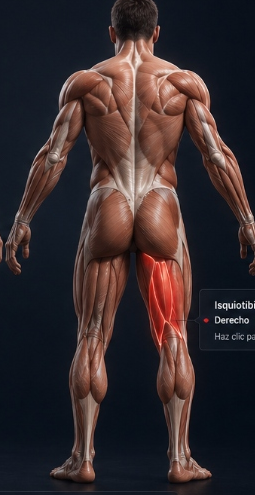
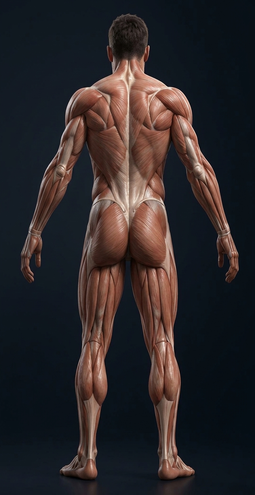
fix(medical): sustituir imagen de fondo posterior por textura limpia 3D sin isquiotibial rojo ni tooltip impresos

diff --git a/src/components/features/medical/InteractiveAnatomyViewer.tsx b/src/components/features/medical/InteractiveAnatomyViewer.tsx
@@ -46,6 +46,16 @@ export function InteractiveAnatomyViewer({
   const [hoveredSubportion, setHoveredSubportion] = useState<string | null>(null);
   const [zoomMode, setZoomMode] = useState<'macro' | 'micro'>('macro');
 
+  // Sincronizar vista de cámara automáticamente cuando cambia la zona seleccionada
+  React.useEffect(() => {
+    if (selectedCode && ANATOMICAL_ZONES[selectedCode]?.viewDefault) {
+      setCameraView(ANATOMICAL_ZONES[selectedCode].viewDefault === 'posterior' ? 'posterior' : 'frontal');
+    } else if (!selectedCode) {
+      setCameraView('frontal');
+      setZoomMode('macro');
+    }
+  }, [selectedCode]);
+
   // Mapear qué zonas anatómicas tienen lesiones activas o antecedentes
   const injuryStatusByZone = useMemo(() => {
     const map: Record<string, { hasActive: boolean; hasResolved: boolean; injury?: PlayerInjuryDTO }> = {};
@@ -510,11 +520,7 @@ export function InteractiveAnatomyViewer({
             {cameraView === 'frontal' && (
               <div className="relative w-[210px] h-[440px] flex items-center justify-center">
                 <img
-                  src={
-                    injuryStatusByZone['recto_femoral_der']?.hasActive || selectedCode === 'recto_femoral_der'
-                      ? '/models/avatar_exact_mockup.png'
-                      : '/models/avatar_front_reference_clean.png'
-                  }
+                  src="/models/avatar_front_reference_clean.png"
                   alt="Anatomía Frontal"
                   className="w-full h-full object-contain filter contrast-105 pointer-events-none"
                 />
